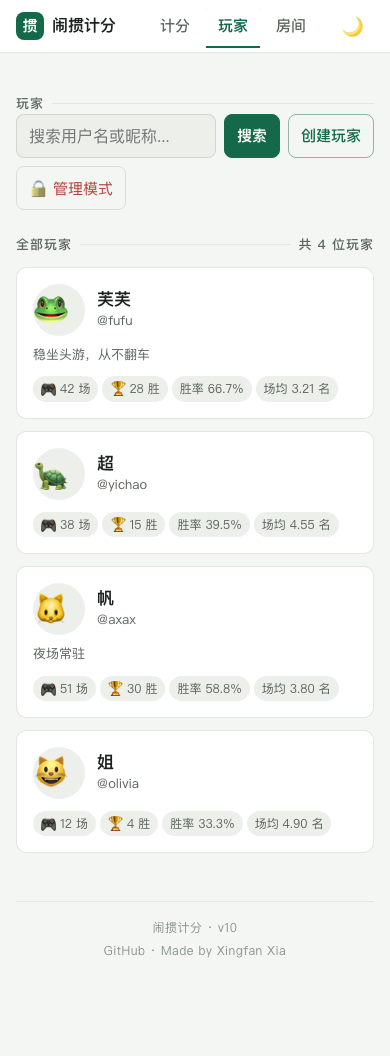
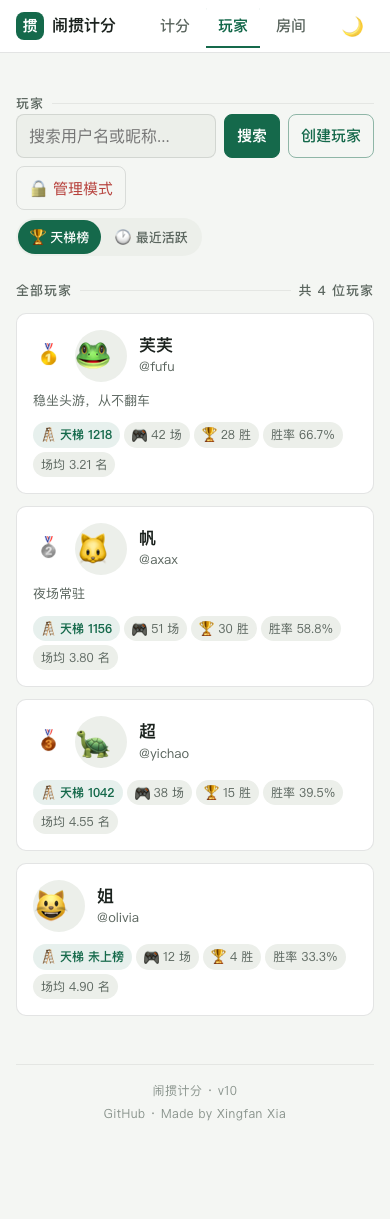
feat(ladder): display — 天梯榜 leaderboard + profile ladder tiles
- api/players/list.js: `?sort=ladder` ranks players by rating DESC (ranked
  players first, never-ranked fall to recency order); summarizeLadderForList
  already exposed ladder in the list payload.
- players.html: 天梯榜 / 最近活跃 sort toggle (defaults to 天梯榜), rank medals
  🥇🥈🥉 / #N in leaderboard mode, and an accent ladder badge (🪜 天梯 N, 未上榜
  when unranked) on each card.
- player-profile.html: headline 天梯分 section (天梯分 / 天梯峰值 / 天梯场次),
  rating tile accent-tinted; ladder is global so the mode tabs don't touch it.
- style.css: .sort-toggle, .player-card__rank, .stat-badge--ladder, ladder
  profile tiles — all tokens only (light/dark).
- Visual fixtures gain ladder data; baselines regenerated (players/profile show
  the new UI; index-session reflects the merged honors anti-sweep).

Verified: capture suite renders 天梯榜 + profile tiles correct in light AND dark
(mobile + desktop); theme-toggle smoke 14/14.

diff --git a/players.html b/players.html
@@ -80,6 +80,10 @@
       <button id="createPlayerButton" class="btn-secondary">创建玩家</button>
       <button id="adminModeButton" class="btn-danger">🔒 管理模式</button>
     </div>
+    <div class="sort-toggle" role="tablist" aria-label="排序方式">
+      <button id="sortLadder" type="button" class="sort-toggle__btn sort-toggle__btn--active" role="tab" aria-selected="true">🏆 天梯榜</button>
+      <button id="sortRecent" type="button" class="sort-toggle__btn" role="tab" aria-selected="false">🕐 最近活跃</button>
+    </div>
   </div>
 
   <!-- Admin token panel (JS shows/hides) -->
@@ -141,6 +145,8 @@ let allPlayers = [];
 let filteredPlayers = [];
 let isAdminMode = false;
 let adminToken = '';
+let currentSort = 'ladder';   // players page defaults to the 天梯榜 leaderboard
+let currentQuery = '';
 
 function toFiniteNumber(value, fallback = 0) {
   const number = Number(value);
@@ -215,9 +221,26 @@ if (adminTokenInput) {
   });
 }
 
+// Sort toggle: 天梯榜 (ladder leaderboard) vs 最近活跃 (recent activity)
+const sortLadderBtn = document.getElementById('sortLadder');
+const sortRecentBtn = document.getElementById('sortRecent');
+function setSort(sort) {
+  if (currentSort === sort) return;
+  currentSort = sort;
+  const ladderActive = sort === 'ladder';
+  sortLadderBtn?.classList.toggle('sort-toggle__btn--active', ladderActive);
+  sortRecentBtn?.classList.toggle('sort-toggle__btn--active', !ladderActive);
+  sortLadderBtn?.setAttribute('aria-selected', String(ladderActive));
+  sortRecentBtn?.setAttribute('aria-selected', String(!ladderActive));
+  loadPlayers(currentQuery);
+}
+sortLadderBtn?.addEventListener('click', () => setSort('ladder'));
+sortRecentBtn?.addEventListener('click', () => setSort('recent'));
+
 async function loadPlayers(query = '') {
   try {
-    const result = await searchPlayers(query, 100);
+    currentQuery = query;
+    const result = await searchPlayers(query, 100, currentSort);
     allPlayers = result.players;
     filteredPlayers = allPlayers;
 
@@ -244,8 +267,14 @@ function renderPlayers() {
     return;
   }
 
-  container.innerHTML = playersToShow.map(player => {
+  container.innerHTML = playersToShow.map((player, i) => {
     const playerStats = player.stats || {};
+    const ladder = playerStats.ladder || {};
+    const ladderRanked = toFiniteNumber(ladder.sessions) > 0;
+    // Server returns the list already sorted by rating, so the slice index is the
+    // leaderboard position — shown only for ranked players in 天梯榜 mode.
+    const rank = (currentSort === 'ladder' && ladderRanked) ? (start + i + 1) : null;
+    const rankMedal = rank === 1 ? '🥇' : rank === 2 ? '🥈' : rank === 3 ? '🥉' : (rank ? `#${rank}` : '');
 
     return `
       <div
@@ -255,6 +284,7 @@ function renderPlayers() {
         data-profile-handle="${escapeHtml(player.handle)}"
       >
         <div class="player-card__head">
+          ${rankMedal ? `<span class="player-card__rank${rank <= 3 ? ' player-card__rank--top' : ''}">${rankMedal}</span>` : ''}
           <div class="player-card__avatar-wrap">
             ${renderProfileAvatar(player, 56)}
           </div>
@@ -267,6 +297,7 @@ function renderPlayers() {
         ${player.tagline ? `<p class="player-card__tagline">${escapeHtml(player.tagline)}</p>` : ''}
 
         <div class="player-card__stats">
+          <span class="stat-badge stat-badge--ladder">🪜 天梯 ${ladderRanked ? formatInteger(ladder.rating) : '未上榜'}</span>
           <span class="stat-badge">🎮 ${formatInteger(playerStats.sessionsPlayed || playerStats.gamesPlayed, 0)} 场</span>
           <span class="stat-badge">🏆 ${formatInteger(playerStats.sessionsWon || playerStats.wins, 0)} 胜</span>
           <span class="stat-badge">胜率 ${formatPercent(playerStats.sessionWinRate || playerStats.winRate)}%</span>

diff --git a/api/players/list.js b/api/players/list.js
@@ -48,6 +48,29 @@ function getSortablePlayerTimestamp(player) {
   return Number.isFinite(timestamp) ? timestamp : 0;
 }
 
+function getLadderRating(player) {
+  const rating = Number(player?.stats?.ladder?.rating);
+  return Number.isFinite(rating) ? rating : 0;
+}
+
+function getLadderSessions(player) {
+  const sessions = Number(player?.stats?.ladder?.sessions);
+  return Number.isFinite(sessions) && sessions > 0 ? sessions : 0;
+}
+
+// 天梯榜: ranked players (≥1 ladder session) first, by rating DESC; never-ranked
+// players fall to the bottom in recency order so the board reads as a leaderboard.
+function compareByLadder(a, b) {
+  const aRanked = getLadderSessions(a) > 0;
+  const bRanked = getLadderSessions(b) > 0;
+  if (aRanked !== bRanked) return aRanked ? -1 : 1;
+  if (aRanked && bRanked) {
+    const byRating = getLadderRating(b) - getLadderRating(a);
+    if (byRating !== 0) return byRating;
+  }
+  return getSortablePlayerTimestamp(b) - getSortablePlayerTimestamp(a);
+}
+
 export default async function handler(request) {
   const preflight = handleCorsPreflight(request, 'GET, OPTIONS');
   if (preflight) return preflight;
@@ -61,6 +84,7 @@ export default async function handler(request) {
     // Parse query parameters
     const url = new URL(request.url);
     const searchQuery = normalizeSearchText(url.searchParams.get('q') || '');
+    const sortBy = url.searchParams.get('sort') === 'ladder' ? 'ladder' : 'recent';
     const pagination = parseListPagination(url.searchParams);
 
     // Validate parameters
@@ -90,10 +114,10 @@ export default async function handler(request) {
       players = players.filter(player => matchesSearch(player, searchQuery));
     }
 
-    // Sort by lastActiveAt DESC (most recently active first), fallback to createdAt
-    players.sort((a, b) => {
-      return getSortablePlayerTimestamp(b) - getSortablePlayerTimestamp(a);
-    });
+    // Sort: ladder leaderboard, or lastActiveAt DESC (default).
+    players.sort(sortBy === 'ladder'
+      ? compareByLadder
+      : (a, b) => getSortablePlayerTimestamp(b) - getSortablePlayerTimestamp(a));
 
     // Get total count before pagination
     const total = players.length;

diff --git a/src/style.css b/src/style.css
@@ -1967,6 +1967,49 @@ body.app-gated .ticker { display: none; }
   color: var(--ink-dim);
   font-variant-numeric: tabular-nums;
 }
+/* Ladder rating badge — accent-tinted so the 天梯分 reads as the headline stat. */
+.stat-badge--ladder {
+  background: var(--accent-soft);
+  color: var(--accent);
+  font-weight: 600;
+}
+
+/* Leaderboard rank medal in 天梯榜 mode. */
+.player-card__rank {
+  flex-shrink: 0;
+  min-width: 30px;
+  text-align: center;
+  font-size: 15px;
+  font-weight: 700;
+  color: var(--ink-dim);
+  font-variant-numeric: tabular-nums;
+}
+.player-card__rank--top { font-size: 22px; }
+
+/* Sort toggle (天梯榜 / 最近活跃). */
+.sort-toggle {
+  display: inline-flex;
+  gap: 2px;
+  margin-top: var(--s2);
+  padding: 2px;
+  background: var(--surface-2);
+  border-radius: var(--radius-pill);
+}
+.sort-toggle__btn {
+  font-size: 13px;
+  font-weight: 500;
+  padding: 5px var(--s3);
+  min-height: 34px;
+  border: none;
+  background: transparent;
+  color: var(--ink-dim);
+  border-radius: var(--radius-pill);
+  cursor: pointer;
+}
+.sort-toggle__btn--active {
+  background: var(--accent);
+  color: var(--on-accent);
+}
 
 .player-card__admin {
   display: flex;
@@ -2350,6 +2393,18 @@ body.app-gated .ticker { display: none; }
   font-weight: 400;
   color: var(--ink-dimmer);
 }
+
+.career-stats-section .stats-header-meta {
+  font-size: 12px;
+  color: var(--ink-dim);
+}
+
+/* Ladder block: three even tiles in one row, accent the rating tile. */
+.career-stats-grid--ladder { grid-template-columns: repeat(3, 1fr); }
+.career-stats-grid--ladder .career-stat-tile:last-child:nth-child(odd) { grid-column: auto; }
+.career-stat-tile--ladder { background: var(--accent-soft); }
+.career-stat-tile--ladder .tile-label { color: var(--accent); }
+.career-stat-tile--ladder .tile-val { color: var(--accent); }
 
 .profile-loading {
   text-align: center;

diff --git a/player-profile.html b/player-profile.html
@@ -738,6 +738,27 @@ async function loadProfile(handle) {
 
       <div class="career-stats-section">
         <div class="stats-header">
+          <span class="stats-header-title">天梯分</span>
+          <span class="stats-header-meta">简化 ELO · 表现优先</span>
+        </div>
+        <div class="career-stats-grid career-stats-grid--ladder">
+          <div class="career-stat-tile career-stat-tile--ladder">
+            <div class="tile-label">天梯分</div>
+            <div class="tile-val">${formatInteger(player.stats.ladder?.rating, 1000)}</div>
+          </div>
+          <div class="career-stat-tile">
+            <div class="tile-label">天梯峰值</div>
+            <div class="tile-val">${formatInteger(player.stats.ladder?.peak, 1000)}</div>
+          </div>
+          <div class="career-stat-tile">
+            <div class="tile-label">天梯场次</div>
+            <div class="tile-val">${formatInteger(player.stats.ladder?.sessions, 0)}</div>
+          </div>
+        </div>
+      </div>
+
+      <div class="career-stats-section" style="margin-top:var(--s3);">
+        <div class="stats-header">
           <span class="stats-header-title">场次数据</span>
         </div>
         <div class="career-stats-grid">

diff --git a/src/api/playerApi.js b/src/api/playerApi.js
@@ -123,11 +123,12 @@ function normalizeSuccessfulWriteResult(result) {
  * @param {number} limit - Max results (default 20)
  * @returns {Promise<{players: Array, total: number, hasMore: boolean}>}
  */
-export async function searchPlayers(query = '', limit = 20) {
+export async function searchPlayers(query = '', limit = 20, sort = 'recent') {
   try {
     const params = new URLSearchParams();
     if (query) params.set('q', query);
     params.set('limit', limit.toString());
+    if (sort === 'ladder') params.set('sort', 'ladder');
 
     const response = await fetch(`${API_BASE}/api/players/list?${params}`);
 
